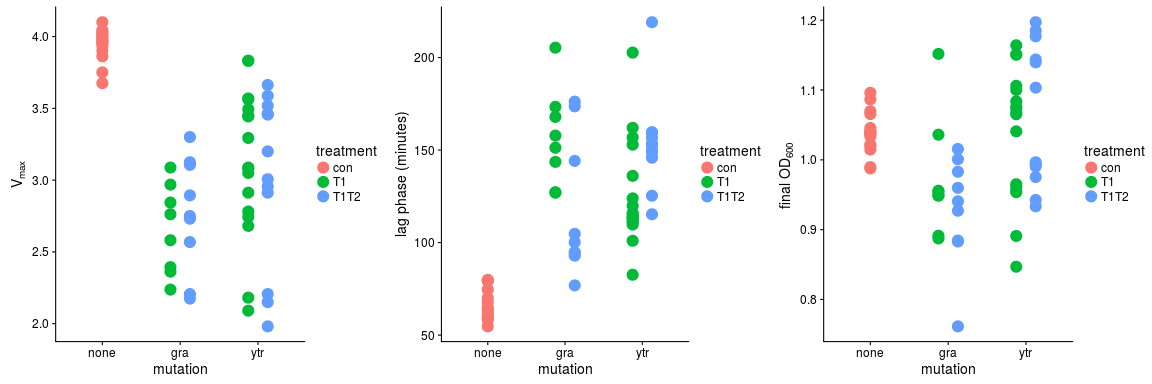
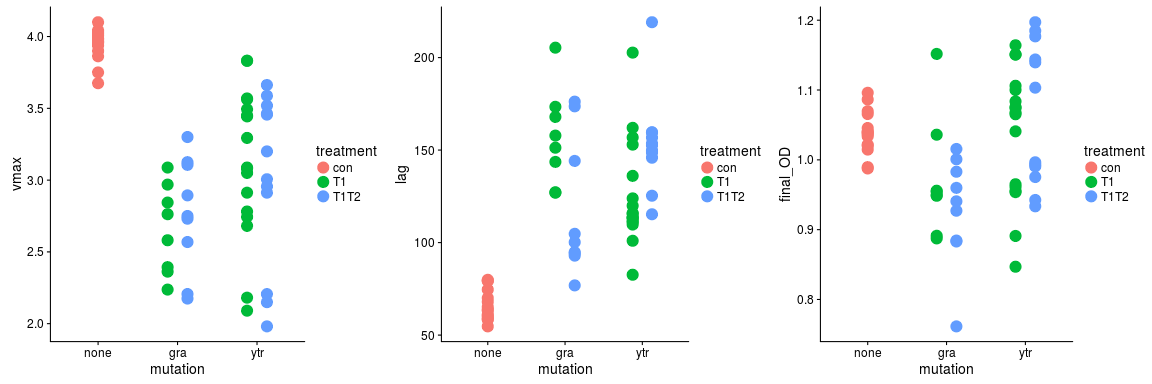
mystery

diff --git a/javi.md b/javi.md
@@ -118,11 +118,14 @@ dev.off()
 ```r
 png("plots/growth_by_mu_plus_tre.png", height = 480 * 0.8, width = 3*(480 * 0.8))
 gvmax <- ggplot(groMU, aes(x = mutation, y = vmax, color = treatment)) + 
-  geom_point(size = 5, position=position_dodge(width = 0.5))
+  geom_point(size = 5, position=position_dodge(width = 0.5)) +
+  ylab(expression(V["max"]))
 glag <- ggplot(groMU, aes(x = mutation, y = lag, color = treatment)) + 
-  geom_point(size = 5, position=position_dodge(width = 0.5))
+  geom_point(size = 5, position=position_dodge(width = 0.5)) +
+  ylab("lag phase (minutes)")
 glod <- ggplot(groMU, aes(x = mutation, y = final_OD, color = treatment)) + 
-  geom_point(size = 5, position=position_dodge(width = 0.5))
+  geom_point(size = 5, position=position_dodge(width = 0.5)) +
+  ylab(expression(paste("final ", "OD"["600"], sep = " ")))
 plot_grid(gvmax, glag, glod, nrow = 1)
 dev.off()
 ```
